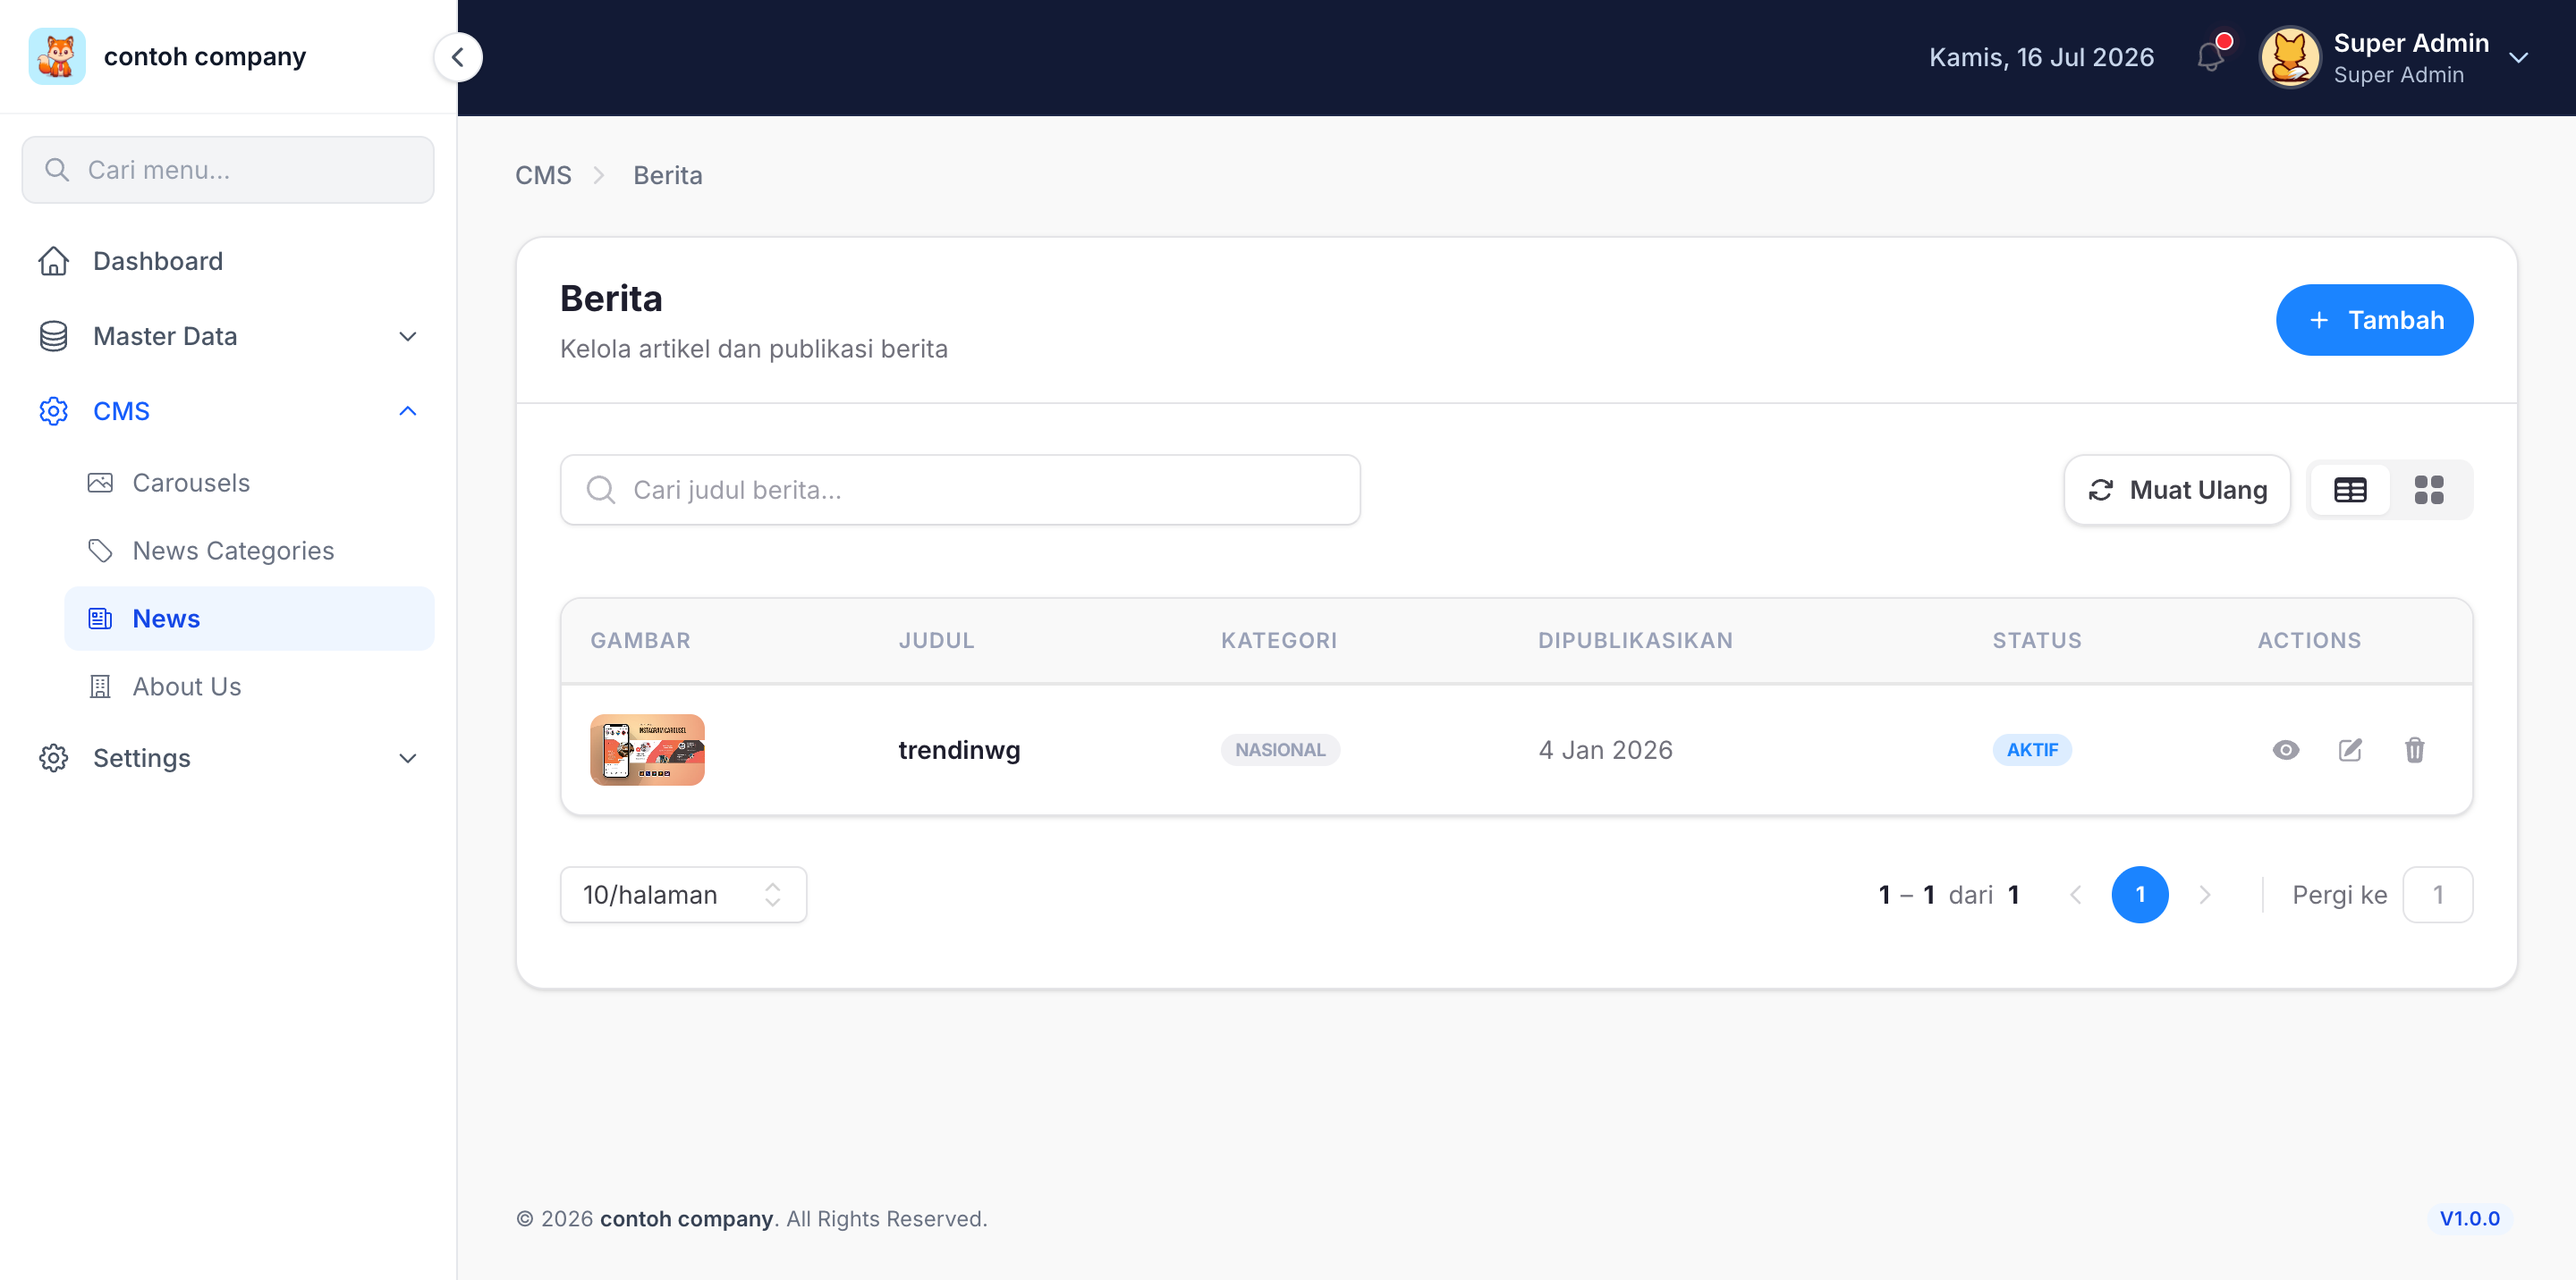
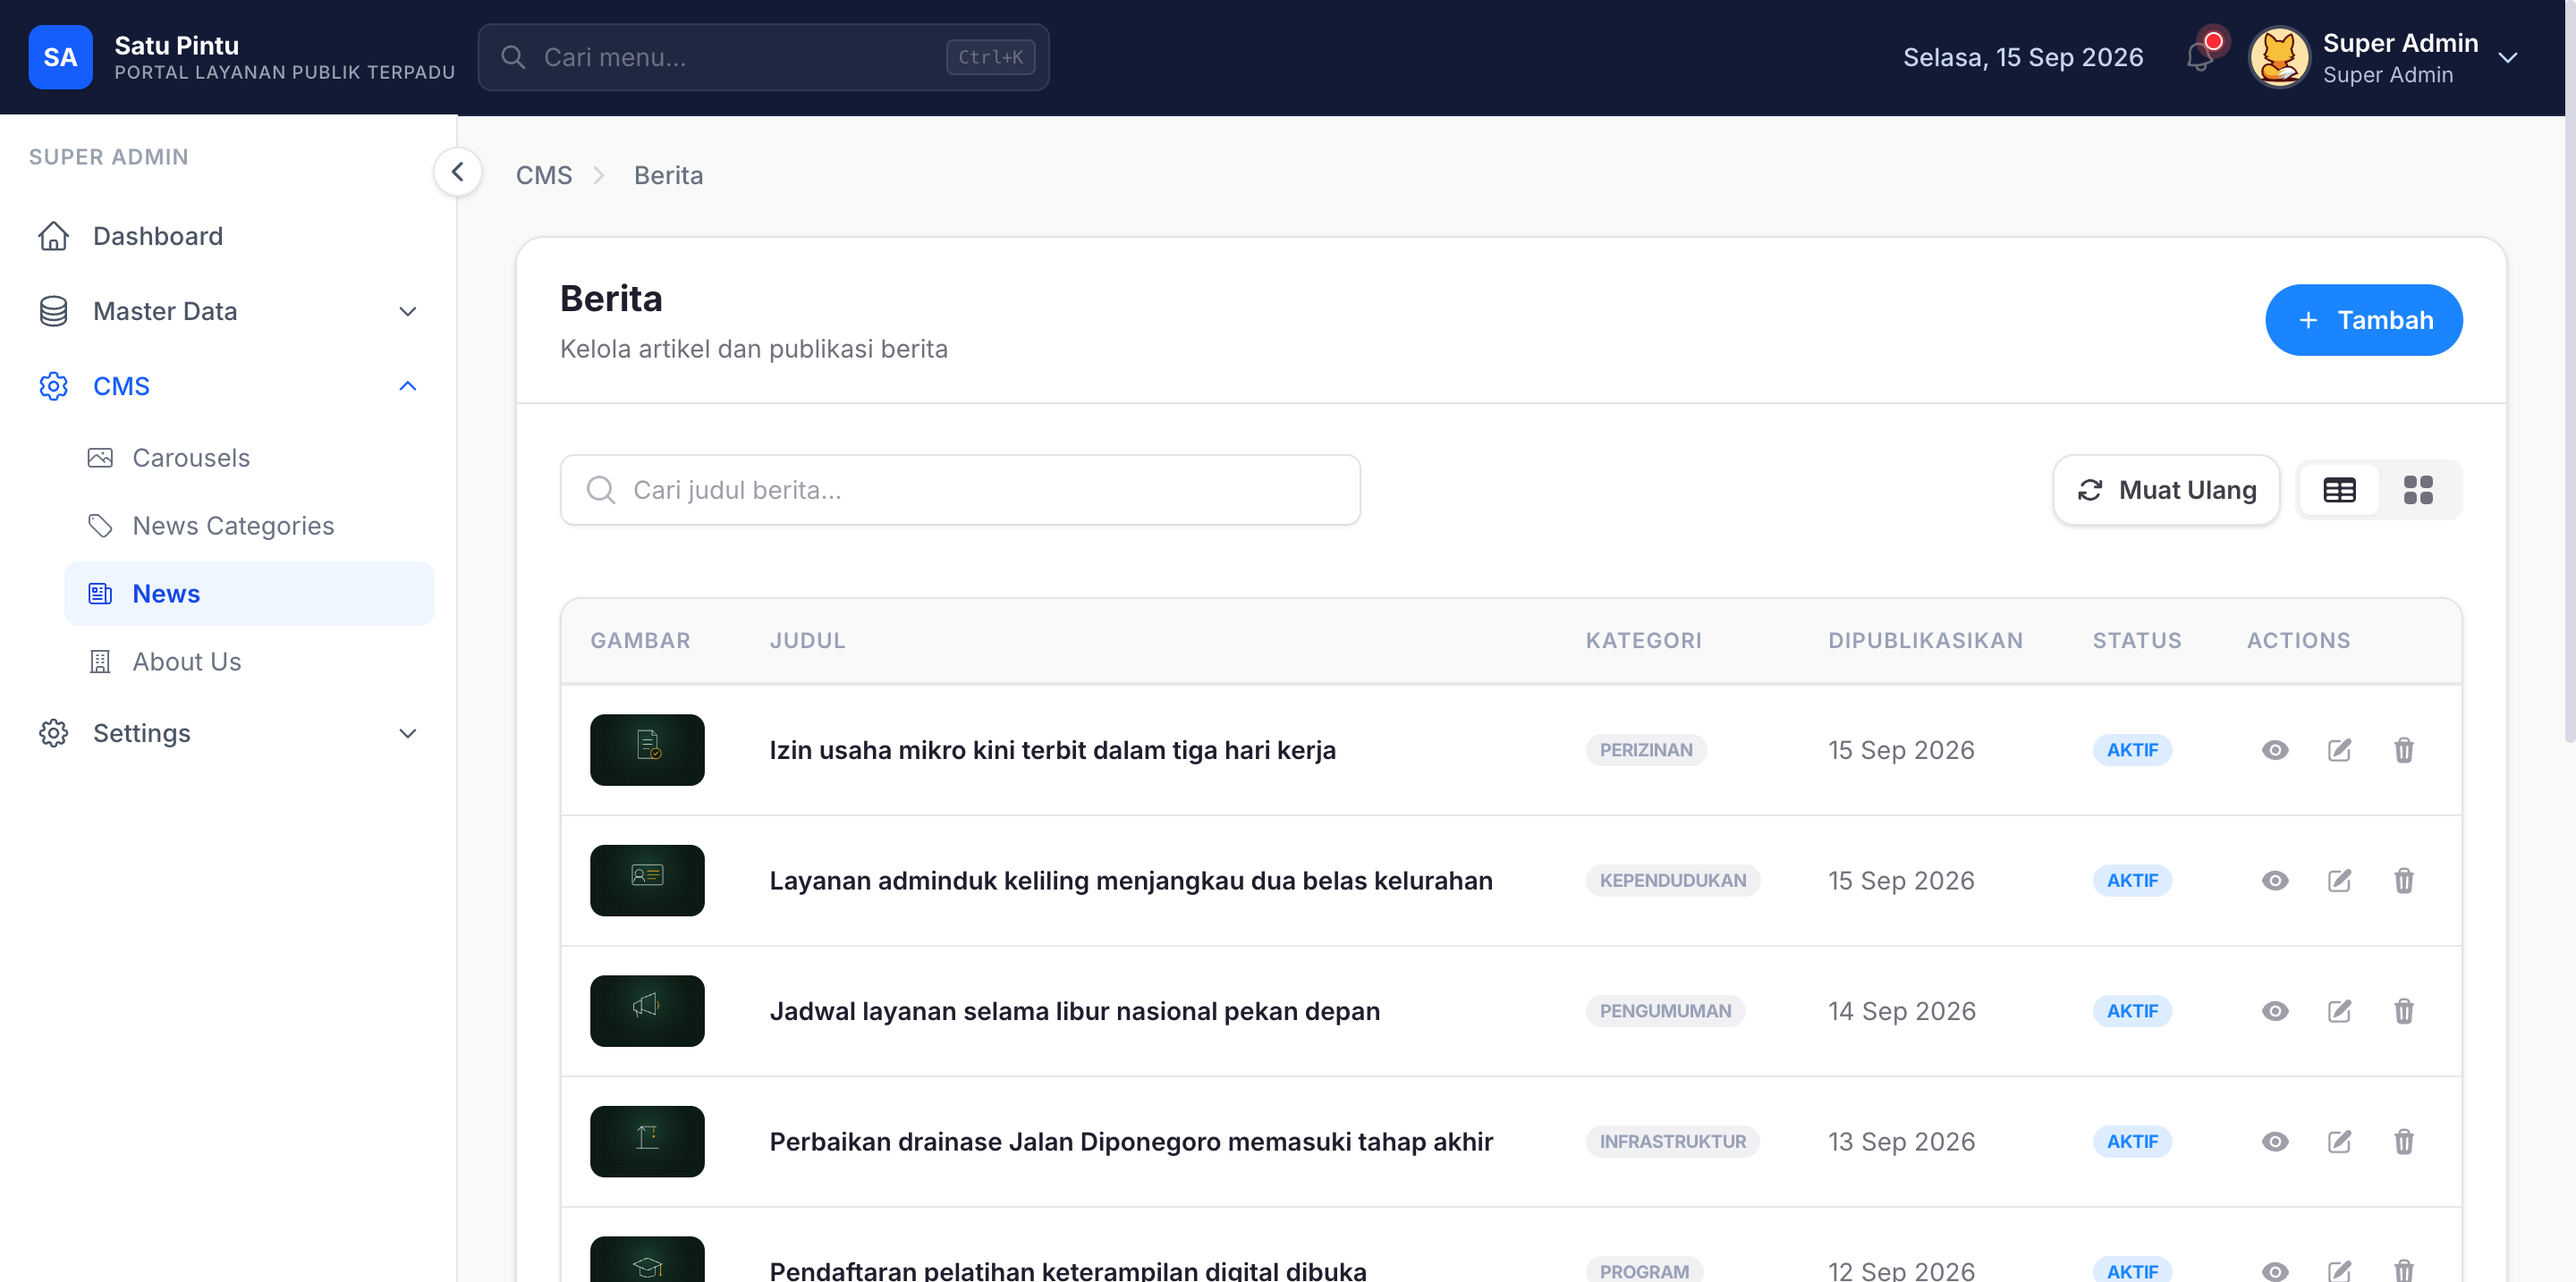
docs: refresh README screenshots for the Ink & Kunyit redesign
Login, dashboard, and CMS news screenshots now reflect the current admin
UI (fixed top bar, Ctrl+K search). Adds a public homepage screenshot
showcasing the new website design system.

diff --git a/README.md b/README.md
@@ -4,6 +4,10 @@
 
 ## 📸 Screenshots
 
+| Public Website — "Ink & Kunyit" |
+|---|
+| ![Website Home Page](docs/screenshots/website-home.png) |
+
 | Login | Dashboard |
 |---|---|
 | ![Login Page](docs/screenshots/login.png) | ![Dashboard Page](docs/screenshots/dashboard.png) |
